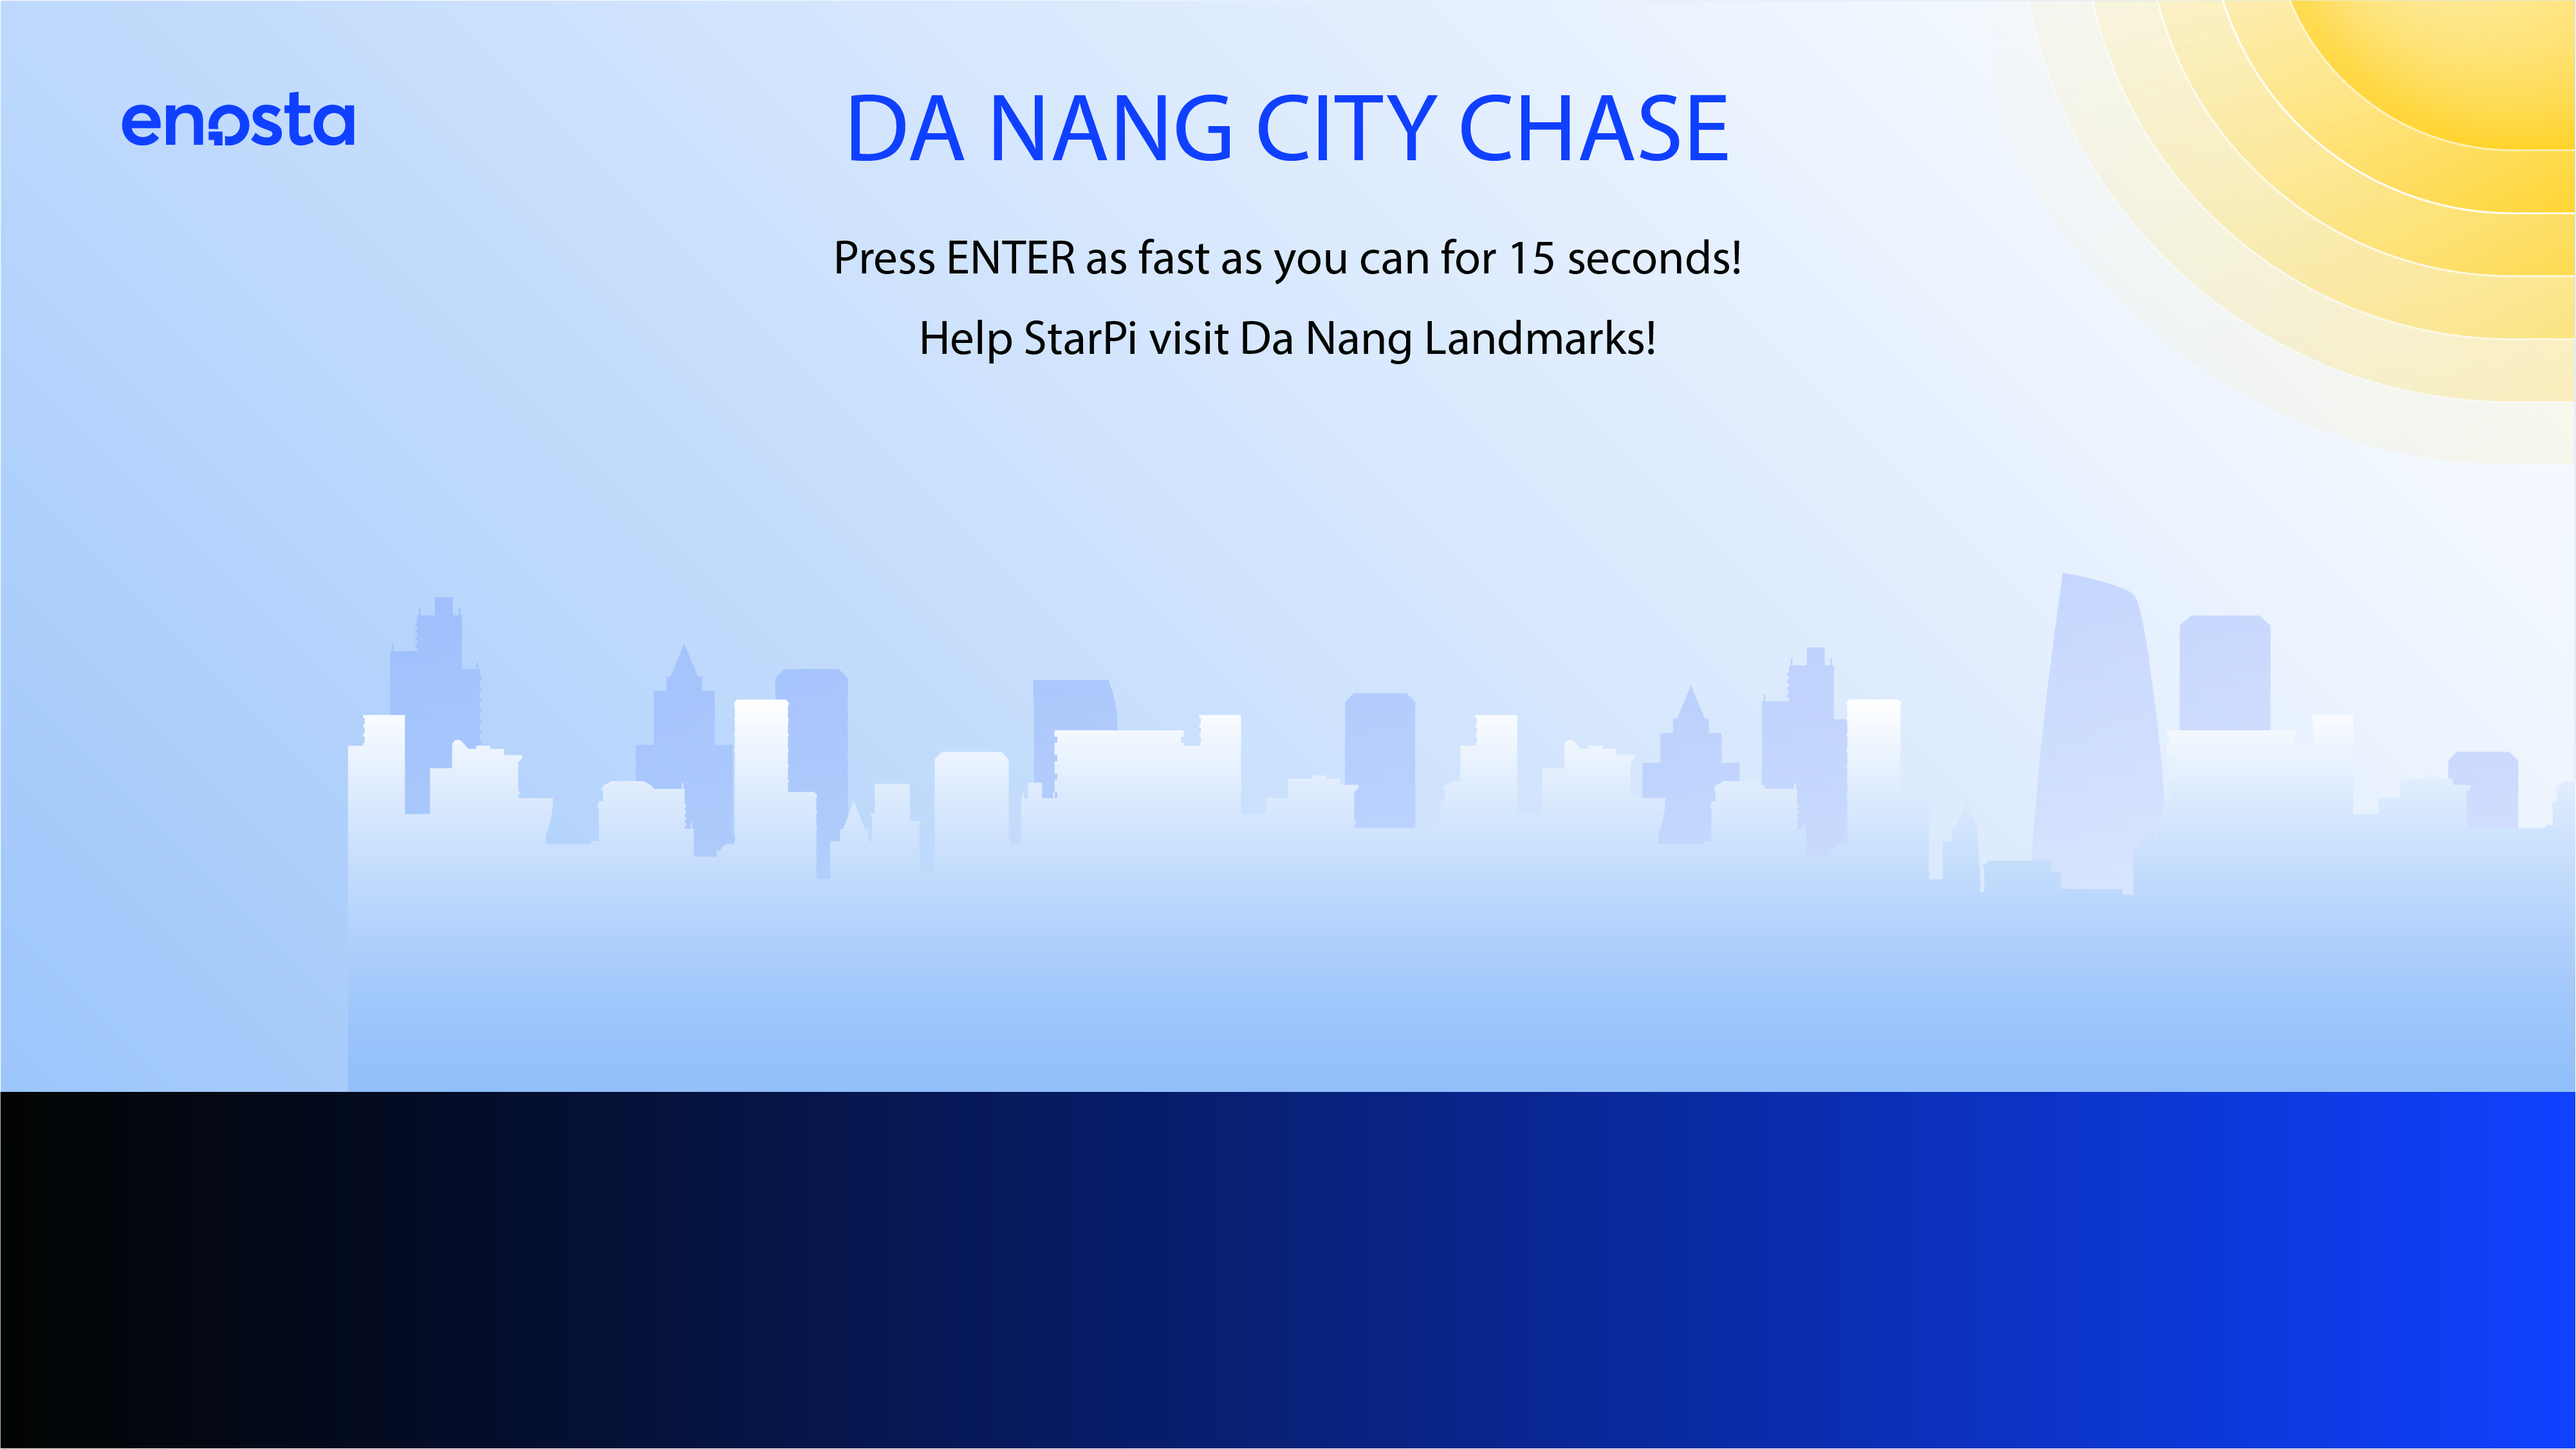
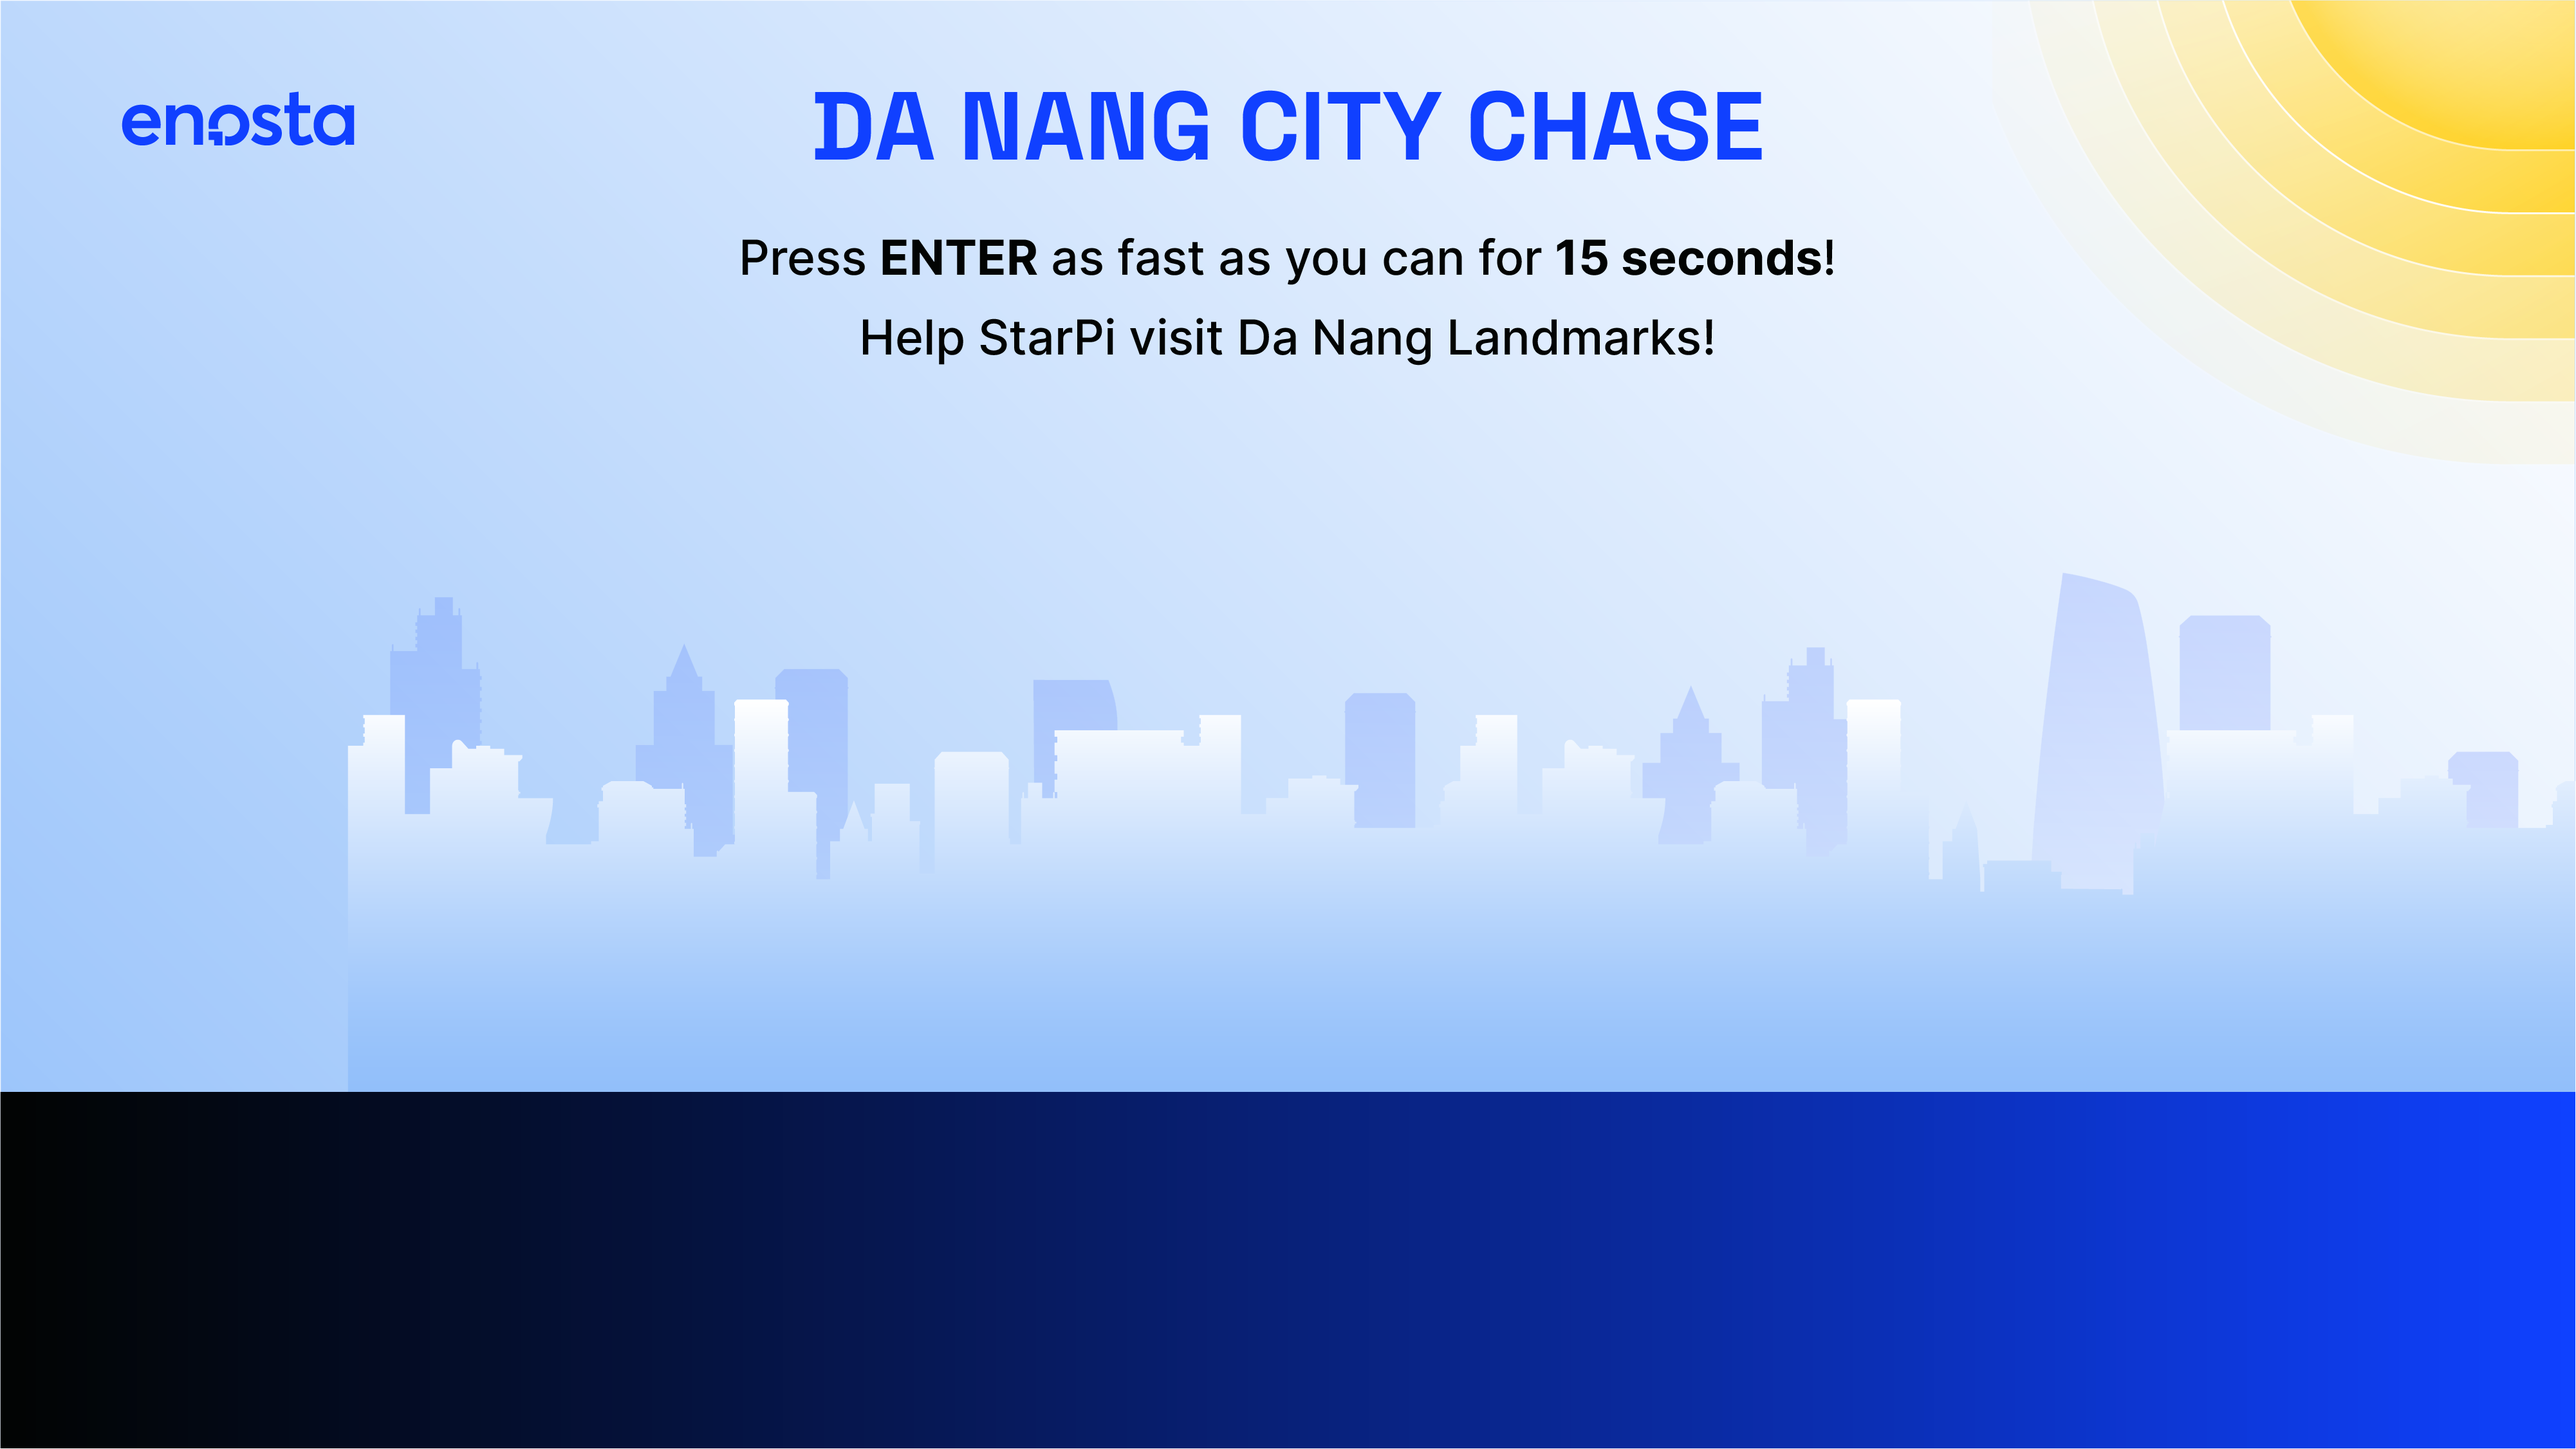
update: new assets

Changed region(s): [[0.3123, 0.0622, 0.687, 0.1243], [0.281, 0.1554, 0.7182, 0.1865], [0.3435, 0.2176, 0.6558, 0.2487]]

diff --git a/index.html b/index.html
@@ -4,7 +4,9 @@
 <head>
     <meta charset="UTF-8" />
     <link rel="icon" type="image/png" href="/favicon.png" />
-    <link href="https://fonts.googleapis.com/css2?family=Inter:wght@400;600&display=swap" rel="stylesheet">
+    <link rel="preconnect" href="https://fonts.googleapis.com">
+    <link rel="preconnect" href="https://fonts.gstatic.com" crossorigin>
+    <link href="https://fonts.googleapis.com/css2?family=Inter:opsz,wght@14..32,700&display=swap" rel="stylesheet">
     <meta name="viewport" content="width=device-width, initial-scale=1.0" />
     <link rel="stylesheet" href="/style.css">
     <title>Phaser React Template</title>

diff --git a/src/game/Config.ts b/src/game/Config.ts
@@ -15,9 +15,9 @@ export const GameConfig = {
     LAYOUT: {
         CENTER_X: 960,
         CENTER_Y: 540,
-        COUNTER_X: 800,
+        COUNTER_X: 730,
         COUNTER_Y: 320,
-        TIMER_X: 1100,
+        TIMER_X: 1195,
         TIMER_Y: 320,
         START_BUTTON_Y: 430,
         CHARACTER_X_OFFSET: 120,
@@ -119,6 +119,7 @@ export const GameConfig = {
         COUNTER: {
             fontFamily: "Inter",
             fontSize: 36,
+            fontWeight: 700,
             color: "#1040FF",
         },
     },
